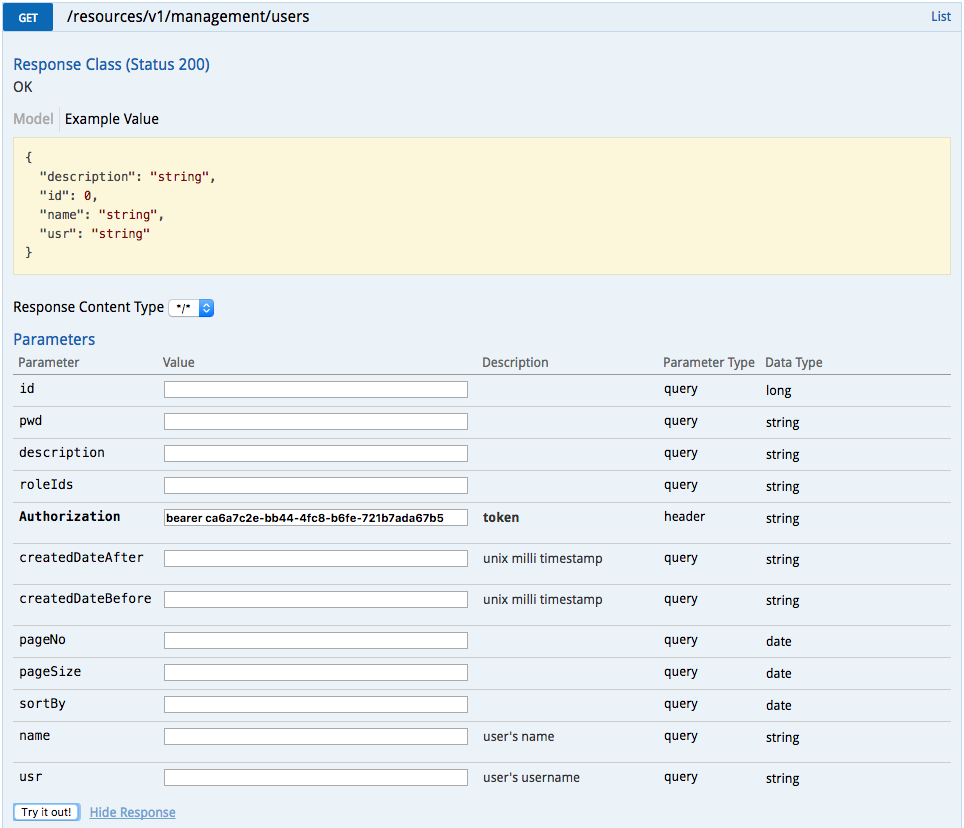
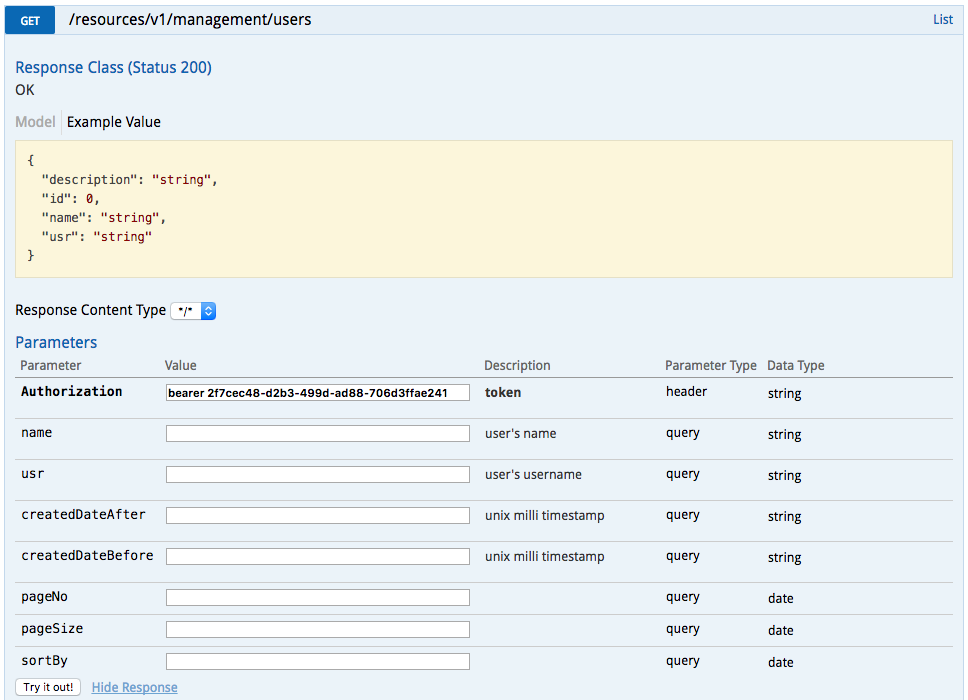
[FIX] Fix png bug ╮(︶﹏︶")╭.

diff --git a/src/main/java/com/saintdan/framework/param/ResourceParam.java b/src/main/java/com/saintdan/framework/param/ResourceParam.java
@@ -22,8 +22,6 @@ public class ResourceParam extends BaseParam {
 
   private String description;
 
-  private String roleIds; // role ids string
-
   public ResourceParam() {}
 
   public ResourceParam(Long id) {
@@ -54,11 +52,4 @@ public class ResourceParam extends BaseParam {
     this.description = description;
   }
 
-  public String getRoleIds() {
-    return roleIds;
-  }
-
-  public void setRoleIds(String roleIds) {
-    this.roleIds = roleIds;
-  }
 }

diff --git a/src/test/java/com/saintdan/framework/tool/GenerateEncodedPassword.java b/src/test/java/com/saintdan/framework/tool/GenerateEncodedPassword.java
@@ -12,7 +12,7 @@ import org.apache.commons.lang3.RandomStringUtils;
  */
 public class GenerateEncodedPassword {
 
-  private static final String RAW_PASSWORD = "123456";
+  private static final String RAW_PASSWORD = "alice123";
 
   public static void main(String[] args) {
     String encodedPassword = new CustomPasswordEncoder().encode(RAW_PASSWORD);
